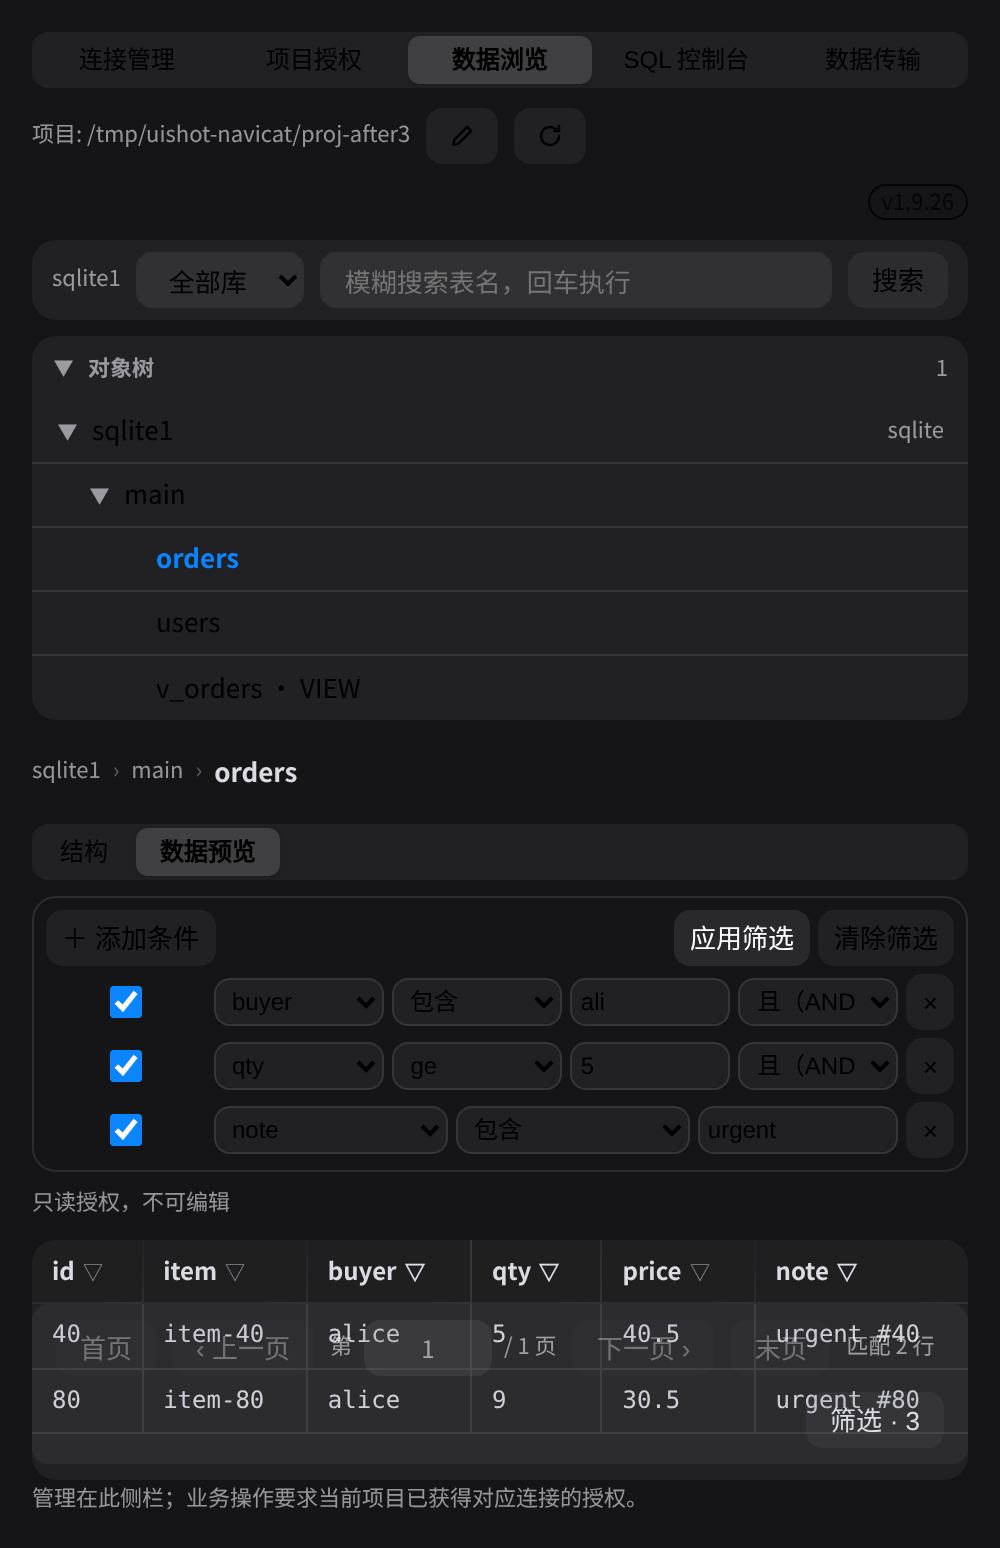
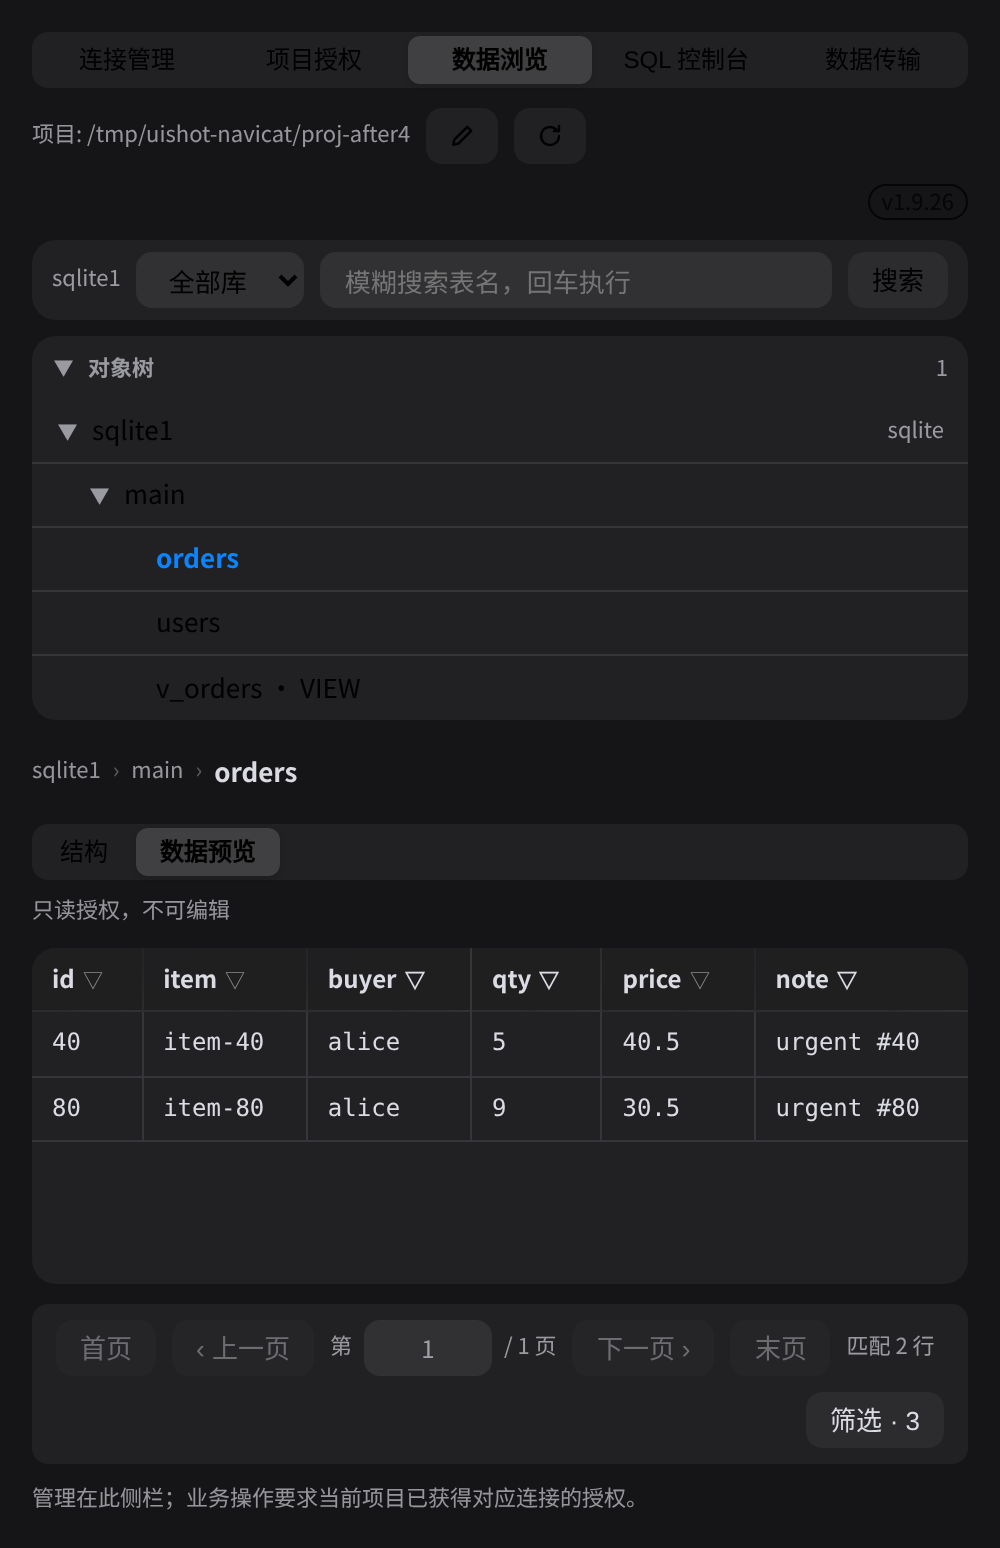
变更(数据浏览): 应用筛选后自动收起窗格；数据区与窗格底色不透明化

diff --git a/client/client.js b/client/client.js
@@ -895,8 +895,8 @@ window.__ModuleLoader__.load({
 			styleEl = document.createElement("style");
 			styleEl.textContent = [
 				"/* ===== Apple-style Design Tokens（dark 基线，light 经 media query 反转；.dbt-browse-root 并入以承载内嵌浏览面板与单元格浮层） ===== */",
-				".dbt-panel,.dbt-browse-root{--dbt-accent:var(--dsh-accent,#0a84ff);--dbt-bg:transparent;--dbt-surface:rgba(120,120,128,.12);--dbt-surface-strong:rgba(120,120,128,.18);--dbt-separator:rgba(120,120,128,.24);--dbt-text:rgba(235,235,245,.92);--dbt-text-secondary:rgba(235,235,245,.6);--dbt-danger:#ff453a;--dbt-success:#30d158;--dbt-warning:#ffd60a;--dbt-dialog-bg:rgba(40,40,44,.85);--dbt-th-bg:rgba(30,30,32,.72);--dbt-seg-active:rgba(255,255,255,.14);--dbt-shadow:0 8px 32px rgba(0,0,0,.28);--dbt-radius-card:12px;--dbt-radius-ctrl:8px;--dbt-radius-pill:6px;--dbt-caption:11px;--dbt-caption-xs:10px;--dbt-ctrl-h:28px;--dbt-row-h:32px;--dbt-chip-h:18px;--dbt-ease:cubic-bezier(.25,.1,.25,1);--dbt-mono:ui-monospace,'SF Mono',Menlo,Consolas,monospace;font-family:-apple-system,BlinkMacSystemFont,'SF Pro Text','Segoe UI',system-ui,sans-serif;}",
-				"@media (prefers-color-scheme: light){.dbt-panel,.dbt-browse-root{--dbt-accent:var(--dsh-accent,#007aff);--dbt-surface:rgba(120,120,128,.08);--dbt-surface-strong:rgba(120,120,128,.14);--dbt-separator:rgba(60,60,67,.18);--dbt-text:rgba(30,30,32,.92);--dbt-text-secondary:rgba(60,60,67,.6);--dbt-danger:#ff3b30;--dbt-success:#34c759;--dbt-warning:#ff9f0a;--dbt-dialog-bg:rgba(252,252,252,.9);--dbt-th-bg:rgba(255,255,255,.72);--dbt-seg-active:rgba(255,255,255,.9);--dbt-shadow:0 8px 32px rgba(0,0,0,.12);}}",
+				".dbt-panel,.dbt-browse-root{--dbt-accent:var(--dsh-accent,#0a84ff);--dbt-bg:transparent;--dbt-surface:rgba(120,120,128,.12);--dbt-surface-strong:rgba(120,120,128,.18);--dbt-separator:rgba(120,120,128,.24);--dbt-text:rgba(235,235,245,.92);--dbt-text-secondary:rgba(235,235,245,.6);--dbt-danger:#ff453a;--dbt-success:#30d158;--dbt-warning:#ffd60a;--dbt-dialog-bg:rgba(40,40,44,.85);--dbt-th-bg:rgba(30,30,32,.72);--dbt-seg-active:rgba(255,255,255,.14);--dbt-shadow:0 8px 32px rgba(0,0,0,.28);--dbt-canvas-solid:#151517;--dbt-radius-card:12px;--dbt-radius-ctrl:8px;--dbt-radius-pill:6px;--dbt-caption:11px;--dbt-caption-xs:10px;--dbt-ctrl-h:28px;--dbt-row-h:32px;--dbt-chip-h:18px;--dbt-ease:cubic-bezier(.25,.1,.25,1);--dbt-mono:ui-monospace,'SF Mono',Menlo,Consolas,monospace;font-family:-apple-system,BlinkMacSystemFont,'SF Pro Text','Segoe UI',system-ui,sans-serif;}",
+				"@media (prefers-color-scheme: light){.dbt-panel,.dbt-browse-root{--dbt-accent:var(--dsh-accent,#007aff);--dbt-surface:rgba(120,120,128,.08);--dbt-surface-strong:rgba(120,120,128,.14);--dbt-separator:rgba(60,60,67,.18);--dbt-text:rgba(30,30,32,.92);--dbt-text-secondary:rgba(60,60,67,.6);--dbt-danger:#ff3b30;--dbt-success:#34c759;--dbt-warning:#ff9f0a;--dbt-dialog-bg:rgba(252,252,252,.9);--dbt-th-bg:rgba(255,255,255,.72);--dbt-seg-active:rgba(255,255,255,.9);--dbt-shadow:0 8px 32px rgba(0,0,0,.12);--dbt-canvas-solid:#ffffff;}}",
 				// 浏览面板根自持文字色：PiP 独立文档挂 body 后无侧栏祖先 color 可继承（内嵌/浮窗两态共用）
 				".dbt-browse-root{color:var(--dbt-text);}",
 				"/* ===== 根容器 ===== */",
@@ -940,7 +940,7 @@ window.__ModuleLoader__.load({
 				".dbt-table th,.dbt-table td{border:none;border-bottom:1px solid var(--dbt-separator);padding:7px 10px;text-align:left;max-width:260px;overflow:hidden;text-overflow:ellipsis;white-space:nowrap;}",
 				".dbt-table th{position:sticky;top:0;z-index:1;background:var(--dbt-th-bg);-webkit-backdrop-filter:blur(20px) saturate(180%);backdrop-filter:blur(20px) saturate(180%);font-weight:600;font-size:12px;}",
 				".dbt-table td{font-family:var(--dbt-mono);}",
-				".dbt-tablewrap{border:none;border-radius:var(--dbt-radius-card);overflow:auto;max-height:320px;background:var(--dbt-surface);}",
+				".dbt-tablewrap{border:none;border-radius:var(--dbt-radius-card);overflow:auto;max-height:320px;background:var(--dsw-alias-bg-base,var(--dbt-canvas-solid));}",
 				"/* ===== 结果网格（SQL 控制台）：可排序表头按钮（毛玻璃 sticky 表头复用 .dbt-table th，不另设） ===== */",
 				".dbt-grid-sort{border:none;background:transparent;color:inherit;font:inherit;font-weight:600;font-size:12px;padding:0;margin:0;cursor:pointer;display:block;width:100%;text-align:left;max-width:240px;overflow:hidden;text-overflow:ellipsis;white-space:nowrap;}",
 				".dbt-grid-sort:focus-visible{outline:2px solid var(--dbt-accent);outline-offset:-1px;border-radius:2px;}",
@@ -1064,8 +1064,8 @@ window.__ModuleLoader__.load({
 				".dbt-browse-jump::-webkit-outer-spin-button,.dbt-browse-jump::-webkit-inner-spin-button{-webkit-appearance:none;margin:0;}",
 				// 字段筛选窗格（Navicat「Filter & Sort」式条件行）
 				// Navicat 构建器密度：窗格不挤占数据区（条件行区限高内部滚动）、行单行不换行、控件定宽对齐
-				".dbt-filter-pane{border:1px solid var(--dbt-separator);border-radius:var(--dbt-radius-card);padding:6px;display:flex;flex-direction:column;gap:4px;font-size:12px;}",
-				".dbt-filter-rows{display:flex;flex-direction:column;gap:4px;max-height:200px;overflow:auto;}",
+				".dbt-filter-pane{border:1px solid var(--dbt-separator);border-radius:var(--dbt-radius-card);padding:6px;display:flex;flex-direction:column;gap:4px;font-size:12px;background:var(--dsw-alias-bg-base,var(--dbt-canvas-solid));}",
+				".dbt-filter-rows{display:flex;flex-direction:column;gap:4px;max-height:150px;overflow:auto;}",
 				".dbt-filter-row{display:flex;align-items:center;gap:4px;flex-wrap:nowrap;}",
 				".dbt-filter-row select,.dbt-filter-row input{height:24px;box-sizing:border-box;border:1px solid var(--dbt-separator);border-radius:var(--dbt-radius-ctrl);background:var(--dbt-surface);color:inherit;font-size:12px;padding:0 4px;}",
 				".dbt-filter-row select{width:140px;flex:0 1 auto;min-width:0;}",
@@ -3142,6 +3142,8 @@ window.__ModuleLoader__.load({
 				const list = rows.map(({ column, op, value, value2 }) => ({ column, op, value, value2 }));
 				const logics = rows.slice(0, -1).map((r) => (r.logic === "or" ? "or" : "and"));
 				setAppliedFilters(list); setAppliedLogic(filterLogic); setAppliedLogics(logics);
+				// 应用后收起窗格并清空草稿：数据区回到最大可视（生效条件数在「筛选 · N」按钮与列头漏斗高亮上体现；再点开自动带回已提交条件）
+				setFilters([]); setFiltersOpen(false);
 				openTable(sel, 1, { filters: { list, logic: filterLogic, logics }, withTotal: true });
 			};
 			const clearFilters = () => {

diff --git a/tests/client/browse-filters.spec.ts b/tests/client/browse-filters.spec.ts
@@ -308,6 +308,9 @@ describe('3 应用/清除/翻页请求契约', () => {
 		expect(u.searchParams.get('logics')).toBeNull(); // 单行无连接符
 		expect(u.searchParams.get('total')).toBe('1');
 		expect(u.searchParams.get('offset')).toBe('0');
+		// 应用后收起窗格并清空草稿：数据区不被遮挡（「筛选 · 1」按钮可重新展开并带回已提交条件）
+		const paneAfter = paneOf(reactStub.rerender(T.BrowsePane, paneProps()));
+		expect(paneAfter).toBeUndefined();
 	});
 
 	it('多行混合连接符：logics 数组逐行上报；未勾选行被排除', () => {

diff --git a/CHANGELOG.md b/CHANGELOG.md
@@ -2,9 +2,15 @@
 
 ## 未发布
 
-本版把数据预览的筛选窗格按 Navicat 构建器密度紧凑化：不再挤占数据区，控件定宽对齐。
+本版继续收敛筛选窗格对数据区的遮挡：应用筛选后窗格自动收起，数据区与窗格表面改为宿主画布同源的不透明底色，透明透底不再出现。
 
 ### 变更(数据浏览)
+
+- **应用筛选后窗格自动收起**：点「应用筛选」（或值输入回车）后条件窗格立即收起、草稿清空，数据区回到最大可视；生效条件数在「筛选 · N」按钮与列头漏斗高亮上体现，再点「筛选」自动带回已提交条件继续编辑。
+- **数据区不透明化**：数据表格区与筛选窗格底色改用宿主画布 token（`--dsw-alias-bg-base`，缺省回退随主题的实色 `#151517` / `#ffffff`），不再使用半透明表面——任何宿主画布内容都不会透过数据区显示，杜绝「透明弹窗」观感。
+- 条件行区限高 150px 内部滚动（3 条件行场景下窗格总高约 110px），配合自动收起，数据表格在窗格任何状态下都保持主要可视面积。
+- 前后对照取证：`assets/navicat-column-filters-compact/`（亮/暗 × Before/After × 500px@2x；DOM 量化条件行高 58→28px、窗格 238→138px、数据表格顶边 720→620；像素机器校验文字像素占比 > 0）。
+
 
 - **筛选窗格紧凑化（对齐 Navicat 构建器布局密度）**：条件行区限高 200px 内部滚动——窗格展开不再把数据表格挤出可视区；条件行改单行不换行，字段 / 操作符下拉定宽 140px、值输入占满剩余宽度、行间 AND-OR 下拉 80px，多行条件下各列对齐（Navicat 构建器同款排布）；工具条（添加条件 / 应用筛选 / 清除筛选）固定在条件行区上方。
 - 前后对照取证：`assets/navicat-column-filters-compact/`（亮/暗 × Before/After × 500px@2x，真实 `dist/` + 双版本真实 `client.js` + 真实 sqlite 示例库；DOM 机器校验窗格结构契约，像素机器校验文字像素占比 > 0）。

diff --git a/assets/navicat-column-filters-compact/README.md b/assets/navicat-column-filters-compact/README.md
@@ -17,3 +17,15 @@
 - 两版均为各自提交真实构建 `dist/` + 各自真实 `client.js` + 真实插件 HTTP API（临时 home 建
   sqlite1 连接 + ro 授权），React 真实渲染，数据源为真实 sqlite 示例库
 - 像素机器校验（pixel-checks.json）：12 图与底色亮度差 > 60 的文字像素占比 1.41%–3.58%（> 0 判有效）
+
+
+## 增补（应用后自动收起 + 数据区不透明化）
+
+- 反馈「窗口展开后仍有透明弹窗遮挡数据」的两项根治：
+  1. **应用筛选后窗格自动收起**：点「应用筛选」/值输入回车 → 窗格立即收起、草稿清空，数据区回到最大可视；生效条件数在「筛选 · N」按钮与列头漏斗高亮上体现，再点「筛选」自动带回已提交条件；
+  2. **数据区与窗格不透明化**：数据表格区与筛选窗格底色改用宿主画布 token（`--dsw-alias-bg-base`，缺省随主题实色 `#151517` / `#ffffff`），任何底下的内容都不会透出。
+- DOM 量化（probe-collapse-out.txt，Playwright boundingBox 实测，应用筛选后）：
+  `[before] paneAfterApply=1 tableTop=556`（PR #56 首版：窗格仍开，数据区偏小）；
+  `[after] paneAfterApply=0 tableTop=474`（本版：窗格收起，数据区再扩 82px 且不透明）。
+- 场景 1/2 与首版一致；场景 3（筛选生效态）为本增补的核心对照：Before 窗格仍展开、After 已收起。
+- 本组 Before = `d143644`（紧凑化首版）、After = 增补提交；其余取证口径同上。
